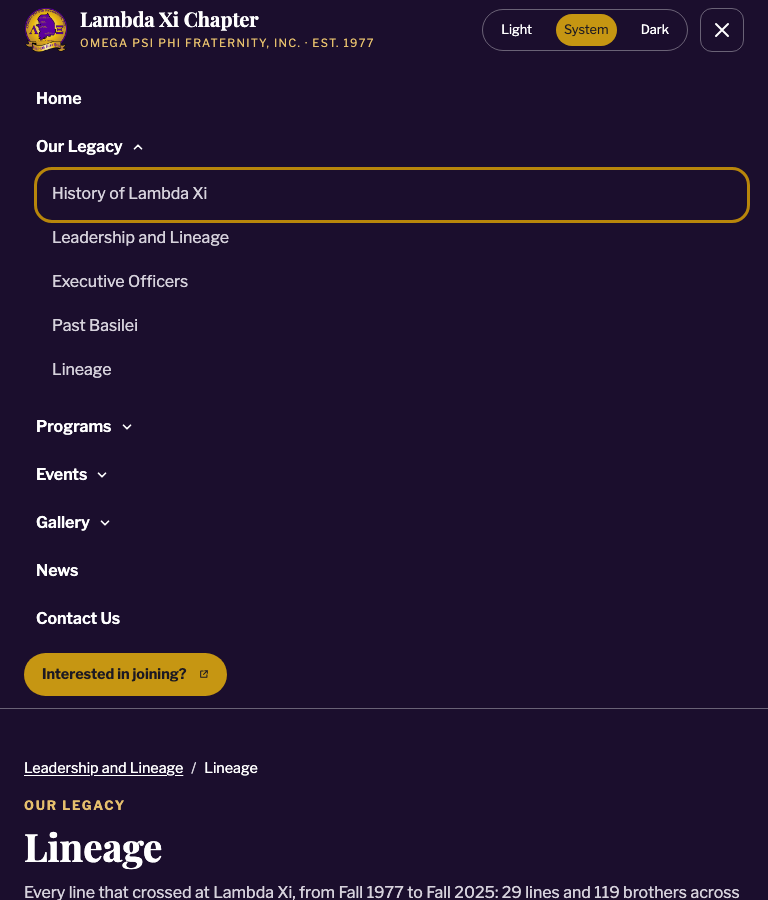
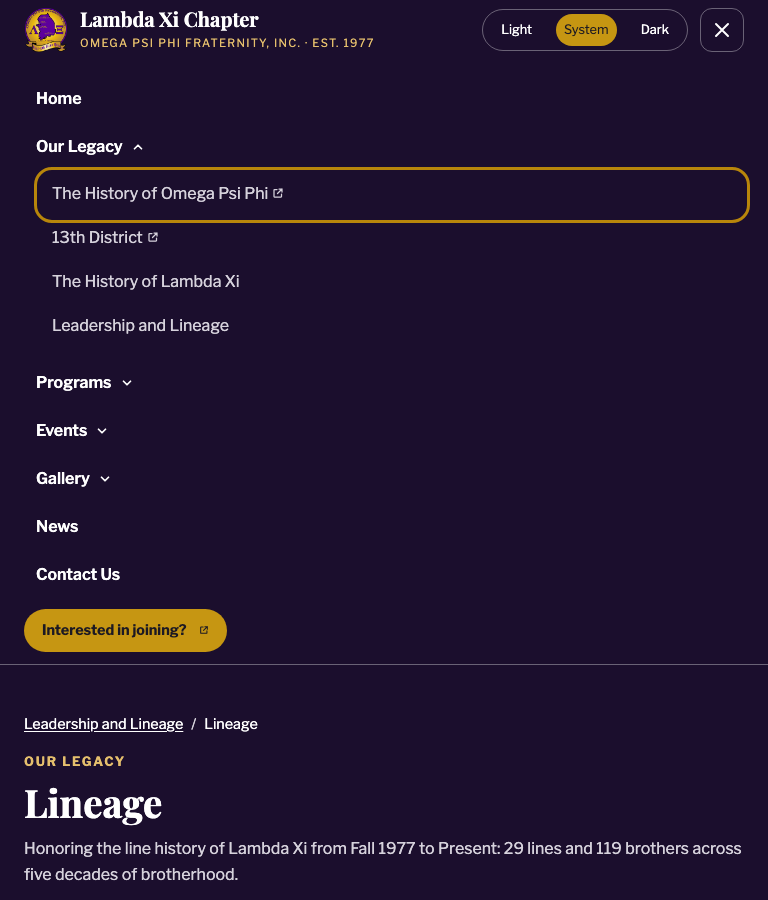
content: Lineage decades as tabs, new introduction and omega legend

diff --git a/lineage/mock/lineage-mock.html b/lineage/mock/lineage-mock.html
@@ -99,19 +99,18 @@
       <nav aria-label="Breadcrumb"><ol class="crumbs"><li><a href="../../leadership/mock/leadership-mock.html">Leadership and Lineage</a></li><li aria-current="page">Lineage</li></ol></nav>
       <p class="eyebrow">Our Legacy</p>
       <h1>Lineage</h1>
-      <p>Every line that crossed at Lambda Xi, from Fall 1977 to Fall 2025: 29 lines and 119 brothers across six decades, one of them awaiting data. Names are listed in the order the chapter records them.</p>
+      <p>Honoring the line history of Lambda Xi from Fall 1977 to Present: 29 lines and 119 brothers across five decades of brotherhood.</p>
     </div>
   </div>
 
   <section class="section">
     <div class="container">
-      <nav aria-label="Decades">
-        <ul class="jump"><li><a href="#decade-1970">1970s</a></li><li><a href="#decade-1980">1980s</a></li><li><a href="#decade-1990">1990s</a></li><li><a href="#decade-2000">2000s</a></li><li><a href="#decade-2010">2010s</a></li><li><a href="#decade-2020">2020s</a></li></ul>
-      </nav>
-      <p class="legend"><span class="omega" aria-hidden="true">&#937;</span> marks a brother who has entered Omega Chapter.</p>
+      <p class="legend"><span class="omega" aria-hidden="true">&#937;</span> Denotes a brother who has entered Omega Chapter.</p>
+      <div class="tabs" data-tabs data-tabs-default="decade-2020">
+        <div class="tabs__list" role="tablist" aria-label="Decades"><button type="button" role="tab" id="tab-decade-1970" aria-controls="decade-1970" aria-selected="false" tabindex="-1">1970s</button><button type="button" role="tab" id="tab-decade-1980" aria-controls="decade-1980" aria-selected="false" tabindex="-1">1980s</button><button type="button" role="tab" id="tab-decade-1990" aria-controls="decade-1990" aria-selected="false" tabindex="-1">1990s</button><button type="button" role="tab" id="tab-decade-2000" aria-controls="decade-2000" aria-selected="false" tabindex="-1">2000s</button><button type="button" role="tab" id="tab-decade-2010" aria-controls="decade-2010" aria-selected="false" tabindex="-1">2010s</button><button type="button" role="tab" id="tab-decade-2020" aria-controls="decade-2020" aria-selected="false" tabindex="-1">2020s</button></div>
 
-      <section class="decade" id="decade-1970" aria-labelledby="decade-1970-title">
-        <h2 id="decade-1970-title">1970s</h2>
+      <section class="tabs__panel" role="tabpanel" id="decade-1970" aria-labelledby="tab-decade-1970" tabindex="0">
+        <h2 class="visually-hidden">1970s</h2>
         <p class="legend">1 line, 3 brothers</p>
         <div class="semesters">
           <div class="semester">
@@ -125,8 +124,8 @@
         </div>
       </section>
 
-      <section class="decade" id="decade-1980" aria-labelledby="decade-1980-title">
-        <h2 id="decade-1980-title">1980s</h2>
+      <section class="tabs__panel" role="tabpanel" id="decade-1980" aria-labelledby="tab-decade-1980" tabindex="0">
+        <h2 class="visually-hidden">1980s</h2>
         <p class="legend">9 lines, 47 brothers</p>
         <div class="semesters">
           <div class="semester">
@@ -224,13 +223,13 @@
         </div>
       </section>
 
-      <section class="decade" id="decade-1990" aria-labelledby="decade-1990-title">
-        <h2 id="decade-1990-title">1990s</h2>
+      <section class="tabs__panel" role="tabpanel" id="decade-1990" aria-labelledby="tab-decade-1990" tabindex="0">
+        <h2 class="visually-hidden">1990s</h2>
         <p class="legend">No lines are recorded for this decade yet. The chapter is gathering the names; they will appear here when received.</p>
       </section>
 
-      <section class="decade" id="decade-2000" aria-labelledby="decade-2000-title">
-        <h2 id="decade-2000-title">2000s</h2>
+      <section class="tabs__panel" role="tabpanel" id="decade-2000" aria-labelledby="tab-decade-2000" tabindex="0">
+        <h2 class="visually-hidden">2000s</h2>
         <p class="legend">5 lines, 22 brothers</p>
         <div class="semesters">
           <div class="semester">
@@ -283,8 +282,8 @@
         </div>
       </section>
 
-      <section class="decade" id="decade-2010" aria-labelledby="decade-2010-title">
-        <h2 id="decade-2010-title">2010s</h2>
+      <section class="tabs__panel" role="tabpanel" id="decade-2010" aria-labelledby="tab-decade-2010" tabindex="0">
+        <h2 class="visually-hidden">2010s</h2>
         <p class="legend">8 lines, 30 brothers</p>
         <div class="semesters">
           <div class="semester">
@@ -360,8 +359,8 @@
         </div>
       </section>
 
-      <section class="decade" id="decade-2020" aria-labelledby="decade-2020-title">
-        <h2 id="decade-2020-title">2020s</h2>
+      <section class="tabs__panel" role="tabpanel" id="decade-2020" aria-labelledby="tab-decade-2020" tabindex="0">
+        <h2 class="visually-hidden">2020s</h2>
         <p class="legend">6 lines, 17 brothers</p>
         <div class="semesters">
           <div class="semester">
@@ -413,6 +412,7 @@
           </div>
         </div>
       </section>
+      </div>
     </div>
   </section>
 

diff --git a/tooling/mock-src/pages/lineage.html b/tooling/mock-src/pages/lineage.html
@@ -14,19 +14,18 @@
       <nav aria-label="Breadcrumb"><ol class="crumbs"><li><a href="{{href:leadership}}">Leadership and Lineage</a></li><li aria-current="page">Lineage</li></ol></nav>
       <p class="eyebrow">Our Legacy</p>
       <h1>Lineage</h1>
-      <p>Every line that crossed at Lambda Xi, from Fall 1977 to Fall 2025: 29 lines and 119 brothers across six decades, one of them awaiting data. Names are listed in the order the chapter records them.</p>
+      <p>Honoring the line history of Lambda Xi from Fall 1977 to Present: 29 lines and 119 brothers across five decades of brotherhood.</p>
     </div>
   </div>
 
   <section class="section">
     <div class="container">
-      <nav aria-label="Decades">
-        <ul class="jump"><li><a href="#decade-1970">1970s</a></li><li><a href="#decade-1980">1980s</a></li><li><a href="#decade-1990">1990s</a></li><li><a href="#decade-2000">2000s</a></li><li><a href="#decade-2010">2010s</a></li><li><a href="#decade-2020">2020s</a></li></ul>
-      </nav>
-      <p class="legend"><span class="omega" aria-hidden="true">&#937;</span> marks a brother who has entered Omega Chapter.</p>
+      <p class="legend"><span class="omega" aria-hidden="true">&#937;</span> Denotes a brother who has entered Omega Chapter.</p>
+      <div class="tabs" data-tabs data-tabs-default="decade-2020">
+        <div class="tabs__list" role="tablist" aria-label="Decades"><button type="button" role="tab" id="tab-decade-1970" aria-controls="decade-1970" aria-selected="false" tabindex="-1">1970s</button><button type="button" role="tab" id="tab-decade-1980" aria-controls="decade-1980" aria-selected="false" tabindex="-1">1980s</button><button type="button" role="tab" id="tab-decade-1990" aria-controls="decade-1990" aria-selected="false" tabindex="-1">1990s</button><button type="button" role="tab" id="tab-decade-2000" aria-controls="decade-2000" aria-selected="false" tabindex="-1">2000s</button><button type="button" role="tab" id="tab-decade-2010" aria-controls="decade-2010" aria-selected="false" tabindex="-1">2010s</button><button type="button" role="tab" id="tab-decade-2020" aria-controls="decade-2020" aria-selected="false" tabindex="-1">2020s</button></div>
 
-      <section class="decade" id="decade-1970" aria-labelledby="decade-1970-title">
-        <h2 id="decade-1970-title">1970s</h2>
+      <section class="tabs__panel" role="tabpanel" id="decade-1970" aria-labelledby="tab-decade-1970" tabindex="0">
+        <h2 class="visually-hidden">1970s</h2>
         <p class="legend">1 line, 3 brothers</p>
         <div class="semesters">
           <div class="semester">
@@ -40,8 +39,8 @@
         </div>
       </section>
 
-      <section class="decade" id="decade-1980" aria-labelledby="decade-1980-title">
-        <h2 id="decade-1980-title">1980s</h2>
+      <section class="tabs__panel" role="tabpanel" id="decade-1980" aria-labelledby="tab-decade-1980" tabindex="0">
+        <h2 class="visually-hidden">1980s</h2>
         <p class="legend">9 lines, 47 brothers</p>
         <div class="semesters">
           <div class="semester">
@@ -139,13 +138,13 @@
         </div>
       </section>
 
-      <section class="decade" id="decade-1990" aria-labelledby="decade-1990-title">
-        <h2 id="decade-1990-title">1990s</h2>
+      <section class="tabs__panel" role="tabpanel" id="decade-1990" aria-labelledby="tab-decade-1990" tabindex="0">
+        <h2 class="visually-hidden">1990s</h2>
         <p class="legend">No lines are recorded for this decade yet. The chapter is gathering the names; they will appear here when received.</p>
       </section>
 
-      <section class="decade" id="decade-2000" aria-labelledby="decade-2000-title">
-        <h2 id="decade-2000-title">2000s</h2>
+      <section class="tabs__panel" role="tabpanel" id="decade-2000" aria-labelledby="tab-decade-2000" tabindex="0">
+        <h2 class="visually-hidden">2000s</h2>
         <p class="legend">5 lines, 22 brothers</p>
         <div class="semesters">
           <div class="semester">
@@ -198,8 +197,8 @@
         </div>
       </section>
 
-      <section class="decade" id="decade-2010" aria-labelledby="decade-2010-title">
-        <h2 id="decade-2010-title">2010s</h2>
+      <section class="tabs__panel" role="tabpanel" id="decade-2010" aria-labelledby="tab-decade-2010" tabindex="0">
+        <h2 class="visually-hidden">2010s</h2>
         <p class="legend">8 lines, 30 brothers</p>
         <div class="semesters">
           <div class="semester">
@@ -275,8 +274,8 @@
         </div>
       </section>
 
-      <section class="decade" id="decade-2020" aria-labelledby="decade-2020-title">
-        <h2 id="decade-2020-title">2020s</h2>
+      <section class="tabs__panel" role="tabpanel" id="decade-2020" aria-labelledby="tab-decade-2020" tabindex="0">
+        <h2 class="visually-hidden">2020s</h2>
         <p class="legend">6 lines, 17 brothers</p>
         <div class="semesters">
           <div class="semester">
@@ -328,6 +327,7 @@
           </div>
         </div>
       </section>
+      </div>
     </div>
   </section>
 

diff --git a/merged/lineage.html b/merged/lineage.html
@@ -99,19 +99,18 @@
       <nav aria-label="Breadcrumb"><ol class="crumbs"><li><a href="leadership.html">Leadership and Lineage</a></li><li aria-current="page">Lineage</li></ol></nav>
       <p class="eyebrow">Our Legacy</p>
       <h1>Lineage</h1>
-      <p>Every line that crossed at Lambda Xi, from Fall 1977 to Fall 2025: 29 lines and 119 brothers across six decades, one of them awaiting data. Names are listed in the order the chapter records them.</p>
+      <p>Honoring the line history of Lambda Xi from Fall 1977 to Present: 29 lines and 119 brothers across five decades of brotherhood.</p>
     </div>
   </div>
 
   <section class="section">
     <div class="container">
-      <nav aria-label="Decades">
-        <ul class="jump"><li><a href="#decade-1970">1970s</a></li><li><a href="#decade-1980">1980s</a></li><li><a href="#decade-1990">1990s</a></li><li><a href="#decade-2000">2000s</a></li><li><a href="#decade-2010">2010s</a></li><li><a href="#decade-2020">2020s</a></li></ul>
-      </nav>
-      <p class="legend"><span class="omega" aria-hidden="true">&#937;</span> marks a brother who has entered Omega Chapter.</p>
+      <p class="legend"><span class="omega" aria-hidden="true">&#937;</span> Denotes a brother who has entered Omega Chapter.</p>
+      <div class="tabs" data-tabs data-tabs-default="decade-2020">
+        <div class="tabs__list" role="tablist" aria-label="Decades"><button type="button" role="tab" id="tab-decade-1970" aria-controls="decade-1970" aria-selected="false" tabindex="-1">1970s</button><button type="button" role="tab" id="tab-decade-1980" aria-controls="decade-1980" aria-selected="false" tabindex="-1">1980s</button><button type="button" role="tab" id="tab-decade-1990" aria-controls="decade-1990" aria-selected="false" tabindex="-1">1990s</button><button type="button" role="tab" id="tab-decade-2000" aria-controls="decade-2000" aria-selected="false" tabindex="-1">2000s</button><button type="button" role="tab" id="tab-decade-2010" aria-controls="decade-2010" aria-selected="false" tabindex="-1">2010s</button><button type="button" role="tab" id="tab-decade-2020" aria-controls="decade-2020" aria-selected="false" tabindex="-1">2020s</button></div>
 
-      <section class="decade" id="decade-1970" aria-labelledby="decade-1970-title">
-        <h2 id="decade-1970-title">1970s</h2>
+      <section class="tabs__panel" role="tabpanel" id="decade-1970" aria-labelledby="tab-decade-1970" tabindex="0">
+        <h2 class="visually-hidden">1970s</h2>
         <p class="legend">1 line, 3 brothers</p>
         <div class="semesters">
           <div class="semester">
@@ -125,8 +124,8 @@
         </div>
       </section>
 
-      <section class="decade" id="decade-1980" aria-labelledby="decade-1980-title">
-        <h2 id="decade-1980-title">1980s</h2>
+      <section class="tabs__panel" role="tabpanel" id="decade-1980" aria-labelledby="tab-decade-1980" tabindex="0">
+        <h2 class="visually-hidden">1980s</h2>
         <p class="legend">9 lines, 47 brothers</p>
         <div class="semesters">
           <div class="semester">
@@ -224,13 +223,13 @@
         </div>
       </section>
 
-      <section class="decade" id="decade-1990" aria-labelledby="decade-1990-title">
-        <h2 id="decade-1990-title">1990s</h2>
+      <section class="tabs__panel" role="tabpanel" id="decade-1990" aria-labelledby="tab-decade-1990" tabindex="0">
+        <h2 class="visually-hidden">1990s</h2>
         <p class="legend">No lines are recorded for this decade yet. The chapter is gathering the names; they will appear here when received.</p>
       </section>
 
-      <section class="decade" id="decade-2000" aria-labelledby="decade-2000-title">
-        <h2 id="decade-2000-title">2000s</h2>
+      <section class="tabs__panel" role="tabpanel" id="decade-2000" aria-labelledby="tab-decade-2000" tabindex="0">
+        <h2 class="visually-hidden">2000s</h2>
         <p class="legend">5 lines, 22 brothers</p>
         <div class="semesters">
           <div class="semester">
@@ -283,8 +282,8 @@
         </div>
       </section>
 
-      <section class="decade" id="decade-2010" aria-labelledby="decade-2010-title">
-        <h2 id="decade-2010-title">2010s</h2>
+      <section class="tabs__panel" role="tabpanel" id="decade-2010" aria-labelledby="tab-decade-2010" tabindex="0">
+        <h2 class="visually-hidden">2010s</h2>
         <p class="legend">8 lines, 30 brothers</p>
         <div class="semesters">
           <div class="semester">
@@ -360,8 +359,8 @@
         </div>
       </section>
 
-      <section class="decade" id="decade-2020" aria-labelledby="decade-2020-title">
-        <h2 id="decade-2020-title">2020s</h2>
+      <section class="tabs__panel" role="tabpanel" id="decade-2020" aria-labelledby="tab-decade-2020" tabindex="0">
+        <h2 class="visually-hidden">2020s</h2>
         <p class="legend">6 lines, 17 brothers</p>
         <div class="semesters">
           <div class="semester">
@@ -413,6 +412,7 @@
           </div>
         </div>
       </section>
+      </div>
     </div>
   </section>
 

diff --git a/docs/leadership/lineage/index.html b/docs/leadership/lineage/index.html
@@ -100,19 +100,18 @@
       <nav aria-label="Breadcrumb"><ol class="crumbs"><li><a href="../">Leadership and Lineage</a></li><li aria-current="page">Lineage</li></ol></nav>
       <p class="eyebrow">Our Legacy</p>
       <h1>Lineage</h1>
-      <p>Every line that crossed at Lambda Xi, from Fall 1977 to Fall 2025: 29 lines and 119 brothers across six decades, one of them awaiting data. Names are listed in the order the chapter records them.</p>
+      <p>Honoring the line history of Lambda Xi from Fall 1977 to Present: 29 lines and 119 brothers across five decades of brotherhood.</p>
     </div>
   </div>
 
   <section class="section">
     <div class="container">
-      <nav aria-label="Decades">
-        <ul class="jump"><li><a href="#decade-1970">1970s</a></li><li><a href="#decade-1980">1980s</a></li><li><a href="#decade-1990">1990s</a></li><li><a href="#decade-2000">2000s</a></li><li><a href="#decade-2010">2010s</a></li><li><a href="#decade-2020">2020s</a></li></ul>
-      </nav>
-      <p class="legend"><span class="omega" aria-hidden="true">&#937;</span> marks a brother who has entered Omega Chapter.</p>
+      <p class="legend"><span class="omega" aria-hidden="true">&#937;</span> Denotes a brother who has entered Omega Chapter.</p>
+      <div class="tabs" data-tabs data-tabs-default="decade-2020">
+        <div class="tabs__list" role="tablist" aria-label="Decades"><button type="button" role="tab" id="tab-decade-1970" aria-controls="decade-1970" aria-selected="false" tabindex="-1">1970s</button><button type="button" role="tab" id="tab-decade-1980" aria-controls="decade-1980" aria-selected="false" tabindex="-1">1980s</button><button type="button" role="tab" id="tab-decade-1990" aria-controls="decade-1990" aria-selected="false" tabindex="-1">1990s</button><button type="button" role="tab" id="tab-decade-2000" aria-controls="decade-2000" aria-selected="false" tabindex="-1">2000s</button><button type="button" role="tab" id="tab-decade-2010" aria-controls="decade-2010" aria-selected="false" tabindex="-1">2010s</button><button type="button" role="tab" id="tab-decade-2020" aria-controls="decade-2020" aria-selected="false" tabindex="-1">2020s</button></div>
 
-      <section class="decade" id="decade-1970" aria-labelledby="decade-1970-title">
-        <h2 id="decade-1970-title">1970s</h2>
+      <section class="tabs__panel" role="tabpanel" id="decade-1970" aria-labelledby="tab-decade-1970" tabindex="0">
+        <h2 class="visually-hidden">1970s</h2>
         <p class="legend">1 line, 3 brothers</p>
         <div class="semesters">
           <div class="semester">
@@ -126,8 +125,8 @@
         </div>
       </section>
 
-      <section class="decade" id="decade-1980" aria-labelledby="decade-1980-title">
-        <h2 id="decade-1980-title">1980s</h2>
+      <section class="tabs__panel" role="tabpanel" id="decade-1980" aria-labelledby="tab-decade-1980" tabindex="0">
+        <h2 class="visually-hidden">1980s</h2>
         <p class="legend">9 lines, 47 brothers</p>
         <div class="semesters">
           <div class="semester">
@@ -225,13 +224,13 @@
         </div>
       </section>
 
-      <section class="decade" id="decade-1990" aria-labelledby="decade-1990-title">
-        <h2 id="decade-1990-title">1990s</h2>
+      <section class="tabs__panel" role="tabpanel" id="decade-1990" aria-labelledby="tab-decade-1990" tabindex="0">
+        <h2 class="visually-hidden">1990s</h2>
         <p class="legend">No lines are recorded for this decade yet. The chapter is gathering the names; they will appear here when received.</p>
       </section>
 
-      <section class="decade" id="decade-2000" aria-labelledby="decade-2000-title">
-        <h2 id="decade-2000-title">2000s</h2>
+      <section class="tabs__panel" role="tabpanel" id="decade-2000" aria-labelledby="tab-decade-2000" tabindex="0">
+        <h2 class="visually-hidden">2000s</h2>
         <p class="legend">5 lines, 22 brothers</p>
         <div class="semesters">
           <div class="semester">
@@ -284,8 +283,8 @@
         </div>
       </section>
 
-      <section class="decade" id="decade-2010" aria-labelledby="decade-2010-title">
-        <h2 id="decade-2010-title">2010s</h2>
+      <section class="tabs__panel" role="tabpanel" id="decade-2010" aria-labelledby="tab-decade-2010" tabindex="0">
+        <h2 class="visually-hidden">2010s</h2>
         <p class="legend">8 lines, 30 brothers</p>
         <div class="semesters">
           <div class="semester">
@@ -361,8 +360,8 @@
         </div>
       </section>
 
-      <section class="decade" id="decade-2020" aria-labelledby="decade-2020-title">
-        <h2 id="decade-2020-title">2020s</h2>
+      <section class="tabs__panel" role="tabpanel" id="decade-2020" aria-labelledby="tab-decade-2020" tabindex="0">
+        <h2 class="visually-hidden">2020s</h2>
         <p class="legend">6 lines, 17 brothers</p>
         <div class="semesters">
           <div class="semester">
@@ -414,6 +413,7 @@
           </div>
         </div>
       </section>
+      </div>
     </div>
   </section>
 

diff --git a/leadership/mock/README.md b/leadership/mock/README.md
@@ -82,3 +82,7 @@ At the operator's direction the Executive Officers page was removed and its eigh
 ## Past Basilei as a tabbed directory, 24 September 2026
 
 At the operator's direction the intro reads "Honoring the brothers who have led the chapter as Basileus since 1977…" with no link, the six decades are tabs (arrow keys, Home and End move between them; the newest decade opens first; a `#basilei-1990s` link opens that decade), and the "No record for … in this decade" notes are gone. Without JavaScript all six tables show.
+
+## Lineage as a tabbed directory, 24 September 2026
+
+At the operator's direction the Lineage intro reads "Honoring the line history of Lambda Xi from Fall 1977 to Present…", the omega legend reads "Denotes a brother who has entered Omega Chapter", and the six decades are tabs like Past Basilei, the newest first. The empty 1990s tab keeps its "No lines are recorded for this decade yet" message.
